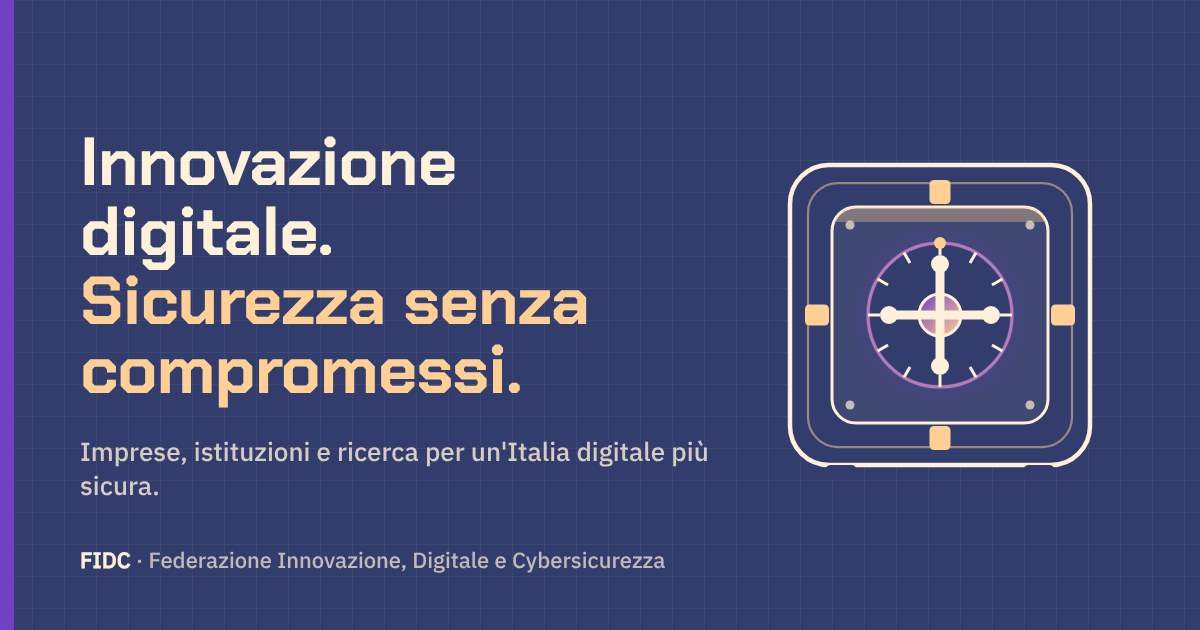
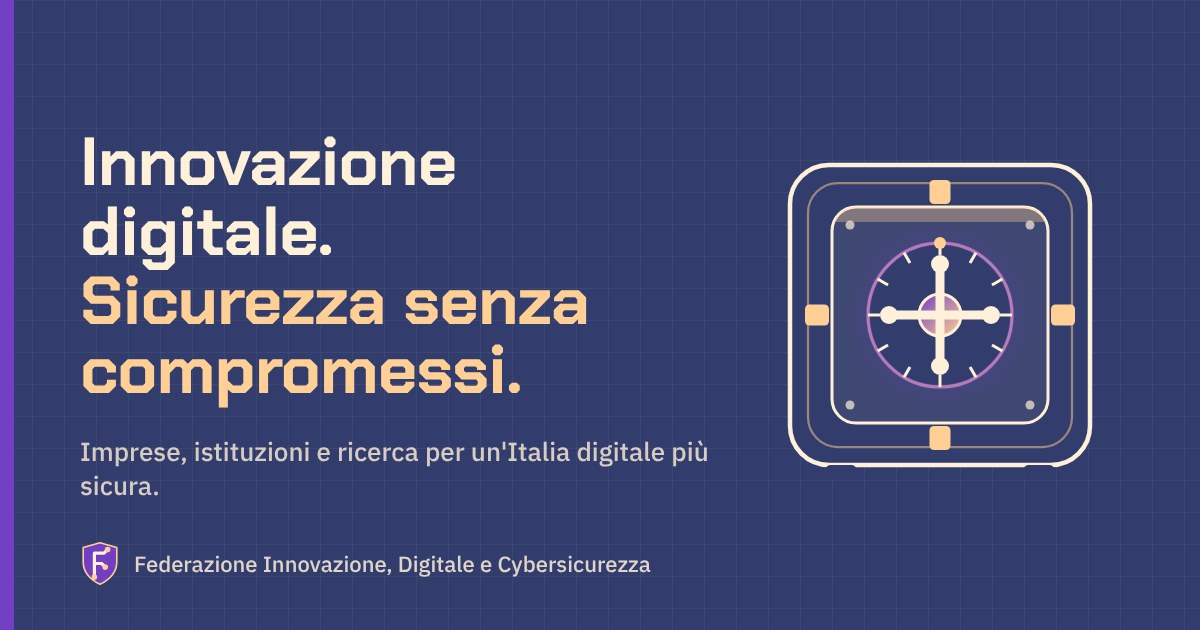
Nuovo marchio: scudo con la F a circuito e tre nodi
Il simbolo precedente (porta blindata) alla misura reale era un ottagono
con un cerchio e non comunicava nulla. Il nuovo si spiega in una frase:
- lo scudo è la sicurezza;
- la F di Federazione è tracciata come una pista di circuito (il digitale);
- i tre nodi sono le tre parole del nome: Innovazione, Digitale,
  Cybersicurezza.

Colori fissi della palette, leggibile fino a 16 px. Aggiornati il
componente del logo (unico movimento: i nodi si accendono in sequenza),
la favicon, l'immagine di anteprima social e la sorgente in LOGO.txt.
Regola fissata in CLAUDE.md.

Claude-Session: https://claude.ai/code/session_01JLWYQRFehH8pcVWPHBUvqG

Changed region(s): [[0.0617, 0.8444, 0.555, 0.9349]]

diff --git a/frontend/src/app/shared/animated-logo/animated-logo.component.ts b/frontend/src/app/shared/animated-logo/animated-logo.component.ts
@@ -11,18 +11,25 @@
 //     dimensionato per restare leggibile anche nel menu laterale, dove il
 //     marchio è largo circa 200 pixel.
 //
-//  2. IL SIMBOLO È UNA PORTA BLINDATA, NON UNO SCUDO GENERICO. Racconta
-//     custodia e accesso controllato: chiuso a chi non ha titolo, apribile da
-//     chi ce l'ha. Lo scudo diceva soltanto "difesa" ed è un simbolo abusato.
+//  2. IL SIMBOLO SI LEGGE IN UNA FRASE (novembre 2026). La "porta blindata"
+//     precedente, alla misura reale del marchio, era un ottagono con un cerchio:
+//     non raccontava niente. Ora:
+//       - lo SCUDO è la sicurezza;
+//       - dentro c'è la F di Federazione, tracciata come una pista di circuito:
+//         il digitale e l'innovazione;
+//       - le piste finiscono in TRE NODI, uno per parola del nome: Innovazione,
+//         Digitale, Cybersicurezza. Sono anche i soggetti che la Federazione
+//         mette in connessione.
+//     Resta riconoscibile a 16 pixel (favicon): sagoma dello scudo + F.
 //
-//  3. SI MUOVE SOLO CIÒ CHE HA UN SIGNIFICATO. Le orbite e i trattini che
-//     scorrevano attorno al marchio erano decorazione senza contenuto. Restano
-//     due movimenti, entrambi motivati: la ghiera che ruota lentamente, come
-//     una combinazione, e il nucleo che pulsa, come un sistema in funzione.
+//  3. SI MUOVE SOLO CIÒ CHE HA UN SIGNIFICATO. I tre nodi si accendono uno dopo
+//     l'altro, ogni qualche secondo, come un segnale che percorre la rete. Le
+//     posizioni restano ferme: nessun elemento vaga per il marchio.
 //
-//  4. I COLORI VENGONO DAL TEMA. Il marchio usa i token --accent e --accent-2,
-//     quindi cambia insieme al velo scelto nel backoffice invece di restare
-//     l'unico elemento fuori tono.
+//  4. IL SIMBOLO HA COLORI FISSI, il nome segue il tema. Un marchio non cambia
+//     colore col velo: scudo viola, F crema, nodi pesca funzionano su fondo
+//     blu e su fondo crema (il contorno pesca lo stacca dal blu, il viola dal
+//     crema). Il nome invece usa --text, quindi resta leggibile su ogni velo.
 // =============================================================================
 
 import { Component, HostListener, Input, signal } from '@angular/core';
@@ -34,7 +41,7 @@ import { BRAND } from '../../content/home-content';
   standalone: true,
   imports: [NgIf],
   template: `
-    <svg [attr.viewBox]="soloSimbolo ? '0 0 200 200' : '0 0 620 200'"
+    <svg [attr.viewBox]="soloSimbolo ? '0 0 100 112' : '0 0 620 200'"
          preserveAspectRatio="xMidYMid meet"
          class="fidc-logo"
          [class.interactive]="interactive"
@@ -43,42 +50,16 @@ import { BRAND } from '../../content/home-content';
          role="img"
          [attr.aria-label]="nome">
 
-      <!-- ============ SIMBOLO: porta blindata ============ -->
-      <g class="mark" transform="translate(14, 14)">
-
-        <!-- Telaio esterno, con gli angoli tagliati come nel resto della grafica -->
-        <path class="telaio"
-              d="M28 4 H144 L168 28 V144 L144 168 H28 L4 144 V28 Z"
-              fill="none" stroke-width="3"/>
-
-        <!-- Anta interna -->
-        <path class="anta"
-              d="M36 20 H136 L152 36 V136 L136 152 H36 L20 136 V36 Z"
-              fill-opacity=".22" stroke-width="1.4"/>
-
-        <!-- Ghiera della combinazione: ruota lentamente, come una serratura -->
-        <!-- La traslazione sta su un gruppo esterno: se stesse sul gruppo animato,
-             la rotazione CSS la cancellerebbe e la ghiera finirebbe nell'angolo
-             in alto a sinistra (il vecchio "pallino ribelle"). -->
-        <g transform="translate(86,86)"><g class="ghiera">
-          <circle r="42" fill="none" stroke-width="1.6" class="ghiera-cerchio"/>
-          <line x1="0" y1="-42" x2="0" y2="-32" stroke-width="3" class="tacca"/>
-          <line x1="42" y1="0" x2="32" y2="0" stroke-width="2" class="tacca"/>
-          <line x1="0" y1="42" x2="0" y2="32" stroke-width="2" class="tacca"/>
-          <line x1="-42" y1="0" x2="-32" y2="0" stroke-width="2" class="tacca"/>
-          <line x1="-29.7" y1="-29.7" x2="-22.6" y2="-22.6" stroke-width="1.4" class="tacca"/>
-          <line x1="29.7" y1="29.7" x2="22.6" y2="22.6" stroke-width="1.4" class="tacca"/>
-        </g></g>
-
-        <!-- Chiavistelli: i quattro punti in cui l'anta si aggancia al telaio -->
-        <rect class="chiavistello" x="78" y="12" width="16" height="10"/>
-        <rect class="chiavistello" x="78" y="150" width="16" height="10"/>
-        <rect class="chiavistello" x="12" y="78" width="10" height="16"/>
-        <rect class="chiavistello" x="150" y="78" width="10" height="16"/>
-
-        <!-- Nucleo: il sistema è attivo -->
-        <circle class="nucleo" cx="86" cy="86" r="13"/>
-        <circle class="nucleo-onda" cx="86" cy="86" r="20" fill="none" stroke-width="1.4"/>
+      <!-- ============ SIMBOLO: scudo con la F a circuito ============ -->
+      <g class="mark" [attr.transform]="soloSimbolo ? null : 'translate(18 12) scale(1.57)'">
+        <!-- Scudo: la sicurezza -->
+        <path class="scudo" d="M50 4 L92 16 V52 C92 78 74 96 50 108 C26 96 8 78 8 52 V16 Z"/>
+        <!-- F di Federazione, tracciata come una pista di circuito -->
+        <path class="pista" d="M36 88 V30 H60 L68 22 M36 56 H54 L62 64"/>
+        <!-- Tre nodi: Innovazione, Digitale, Cybersicurezza -->
+        <g class="nodo n1"><circle cx="36" cy="90" r="7"/><circle class="via" cx="36" cy="90" r="2.6"/></g>
+        <g class="nodo n2"><circle cx="63" cy="65" r="7"/><circle class="via" cx="63" cy="65" r="2.6"/></g>
+        <g class="nodo n3"><circle cx="69" cy="21" r="7"/><circle class="via" cx="69" cy="21" r="2.6"/></g>
       </g>
 
       <!-- ============ NOME PER ESTESO ============ -->
@@ -99,14 +80,11 @@ import { BRAND } from '../../content/home-content';
       transition: transform .25s ease;
     }
 
-    /* I colori arrivano dal tema: il marchio cambia insieme al resto del sito. */
-    .telaio { stroke: var(--signal, var(--accent)); }
-    .anta { fill: var(--accent-2); stroke: var(--accent-2); }
-    .ghiera-cerchio { stroke: var(--signal, var(--accent)); opacity: .8; }
-    .tacca { stroke: var(--signal, var(--accent)); }
-    .chiavistello { fill: var(--signal, var(--accent)); }
-    .nucleo { fill: var(--signal, var(--accent)); }
-    .nucleo-onda { stroke: var(--signal, var(--accent)); }
+    /* Simbolo a colori fissi (vedi punto 4 in testa al file). */
+    .scudo { fill: var(--c-purple); stroke: var(--c-peach); stroke-width: 4; stroke-linejoin: round; }
+    .pista { fill: none; stroke: var(--c-cream); stroke-width: 8; stroke-linecap: round; stroke-linejoin: round; }
+    .nodo circle { fill: var(--c-peach); }
+    .nodo .via { fill: var(--c-purple); }
     .filo { stroke: var(--signal, var(--accent)); opacity: .55; }
 
     .riga-1 {
@@ -120,42 +98,22 @@ import { BRAND } from '../../content/home-content';
       fill: var(--text); opacity: .92;
     }
 
-    /* --- I due soli movimenti, entrambi con un significato --- */
-
-    /* La combinazione gira: il contenuto è sotto chiave. Lenta di proposito,
-       un giro ogni 24 secondi: si nota se la si guarda, non distrae mai. */
-    .ghiera {
-      transform-box: fill-box;
-      transform-origin: center;
-      animation: ghiera-gira 24s linear infinite;
+    /* --- Un solo movimento: il segnale che percorre la rete ---
+       Ogni 7 secondi i tre nodi si accendono in sequenza, dal basso verso
+       l'alto, poi tutto resta fermo. Si nota se lo si guarda, non distrae. */
+    .nodo { transform-box: fill-box; transform-origin: center; animation: segnale 7s ease-in-out infinite; }
+    .n2 { animation-delay: .25s; }
+    .n3 { animation-delay: .5s; }
+    @keyframes segnale {
+      0%, 14%, 100% { transform: scale(1); }
+      7% { transform: scale(1.22); }
     }
-
-    /* Il nucleo respira: il sistema è acceso e sta sorvegliando. */
-    .nucleo {
-      transform-box: fill-box;
-      transform-origin: center;
-      animation: nucleo-respira 4s ease-in-out infinite;
-    }
-    .nucleo-onda {
-      transform-box: fill-box;
-      transform-origin: center;
-      animation: nucleo-onda 4s ease-out infinite;
-    }
-
-    @keyframes ghiera-gira { to { transform: rotate(360deg); } }
-    @keyframes nucleo-respira {
-      0%, 100% { opacity: .85; transform: scale(1); }
-      50%      { opacity: 1; transform: scale(1.08); }
-    }
-    @keyframes nucleo-onda {
-      0%   { opacity: .5; transform: scale(.8); }
-      100% { opacity: 0; transform: scale(1.6); }
-    }
+    .nodo circle:first-child { animation: luce 7s ease-in-out infinite; animation-delay: inherit; }
+    @keyframes luce { 0%, 14%, 100% { fill: var(--c-peach); } 7% { fill: var(--c-cream); } }
 
     @media (prefers-reduced-motion: reduce) {
       .fidc-logo { transition: none; }
-      .ghiera, .nucleo, .nucleo-onda { animation: none !important; }
-      .nucleo-onda { opacity: .35; }
+      .nodo, .nodo circle { animation: none !important; }
     }
   `]
 })

diff --git a/CLAUDE.md b/CLAUDE.md
@@ -145,6 +145,11 @@ Verosimiglianza prima di tutto: gli oggetti in mano si disegnano con `tiene`
 (mai in un punto fisso), i portatili hanno la cerniera lontano da chi scrive,
 i piani di lavoro sono all'altezza dei gomiti, chi siede ha una sedia.
 
+**Marchio** (`animated-logo`, sorgente in `LOGO.txt`): scudo viola (sicurezza) con la
+F di Federazione tracciata come un circuito (digitale) che termina in tre nodi
+(Innovazione, Digitale, Cybersicurezza). Colori fissi, nome per esteso in `--text`.
+Un simbolo nuovo deve potersi spiegare in una frase e leggersi a 16 px.
+
 **Riscontro delle azioni**: ogni salvataggio o eliminazione nel backoffice mostra un
 avviso (`AvvisiService`) con lo stesso verbo del bottone. Gli errori restano nel
 modulo o in un dialogo, non negli avvisi.
